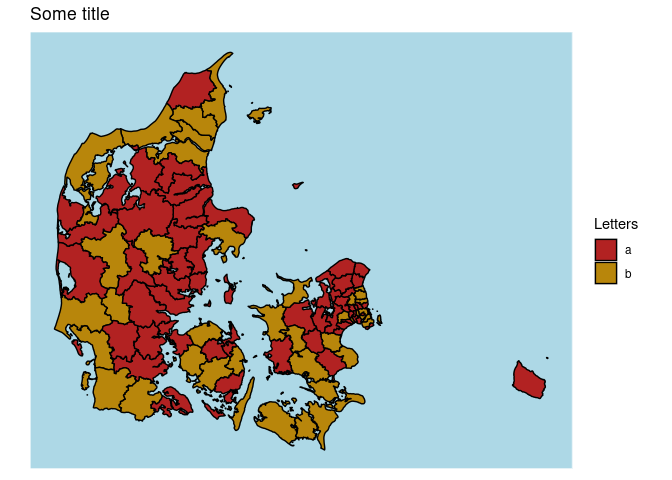
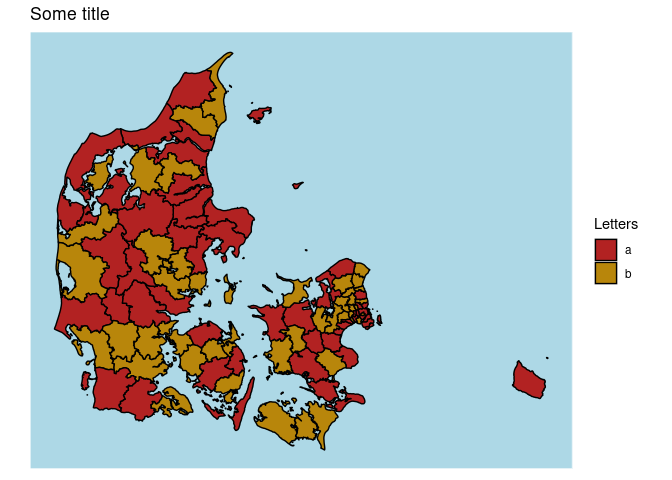
rebuilding readme

diff --git a/README.md b/README.md
@@ -67,26 +67,26 @@ municipality_data <- data.frame(
 
 municipality_data[1:20,]
 #>    municipality_name numeric_value
-#> 1           aabenraa            40
-#> 2            aalborg            58
-#> 3                ærø             3
-#> 4        albertslund            80
-#> 5            allerød            96
-#> 6             aarhus            41
-#> 7             assens            42
-#> 8           ballerup            18
-#> 9            billund             3
-#> 10          bornholm            15
-#> 11           brøndby            37
-#> 12       brønderslev            42
-#> 13       christiansø            74
-#> 14            dragør            92
-#> 15            egedal            87
-#> 16           esbjerg            65
-#> 17   faaborg-midtfyn            10
-#> 18              fanø            78
-#> 19          favrskov            15
-#> 20              faxe             1
+#> 1           aabenraa             8
+#> 2            aalborg            52
+#> 3                ærø            17
+#> 4        albertslund           100
+#> 5            allerød            89
+#> 6             aarhus            47
+#> 7             assens            59
+#> 8           ballerup            45
+#> 9            billund            60
+#> 10          bornholm            20
+#> 11           brøndby            28
+#> 12       brønderslev           100
+#> 13       christiansø            45
+#> 14            dragør            98
+#> 15            egedal            81
+#> 16           esbjerg             1
+#> 17   faaborg-midtfyn            36
+#> 18              fanø            76
+#> 19          favrskov            75
+#> 20              faxe            78
 ```
 
 Plotting these values on their municipalities is as simple as providing
@@ -161,19 +161,18 @@ subplots can easily be drawn, by only providing a subset of entities in
 the data:
 
 ``` r
-municipality_data <- data.frame(
-  municipality_name = c("frederiksberg", "københavn"),
-  factor_value = c("A", "B"),
-  stringsAsFactors = FALSE
-)
+zipcode_data <- plotDK::zipcode_info
+
+zipcode_subset <- zipcode_data[zipcode_data$zipcode_numbers < 3000, , drop = FALSE]  
+
+zipcode_subset$numeric_value <- sample(1:100, size = nrow(zipcode_subset), replace = TRUE)
 
 p <- plotDK::plotDK(
-  data = municipality_data,
-  id = "municipality_name",
-  value = "factor_value",
-  plotlevel = "municipality"
+  data = zipcode_subset,
+  id = "zipcode_numbers",
+  value = "numeric_value",
+  plotlevel = "zipcode"
 )
-
 p
 ```
 
@@ -184,10 +183,10 @@ drawn, do this by passing the argument; show\_missing = TRUE:
 
 ``` r
 p <- plotDK::plotDK(
-  data = municipality_data,
-  id = "municipality_name",
-  value = "factor_value",
-  plotlevel = "municipality",
+  data = zipcode_subset,
+  id = "zipcode_numbers",
+  value = "numeric_value",
+  plotlevel = "zipcode",
   show_missing = TRUE
 )
 
